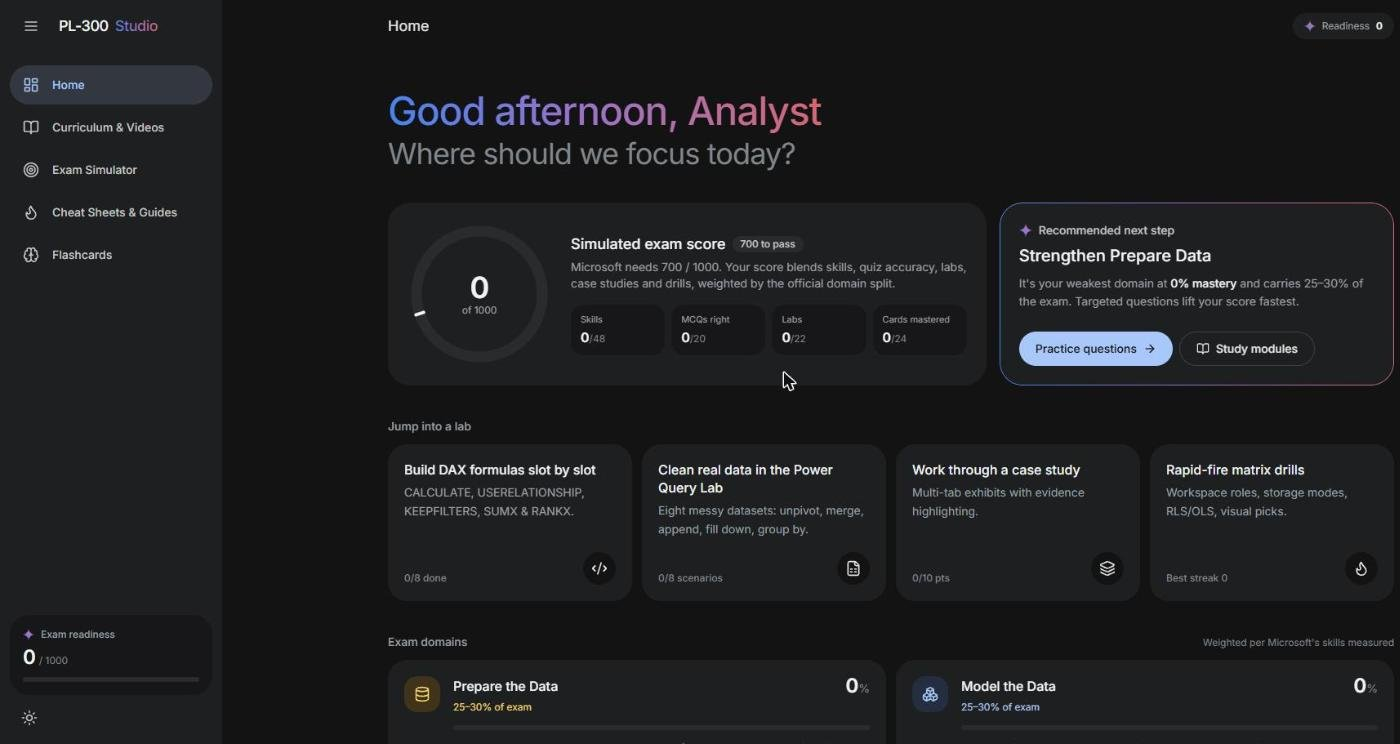
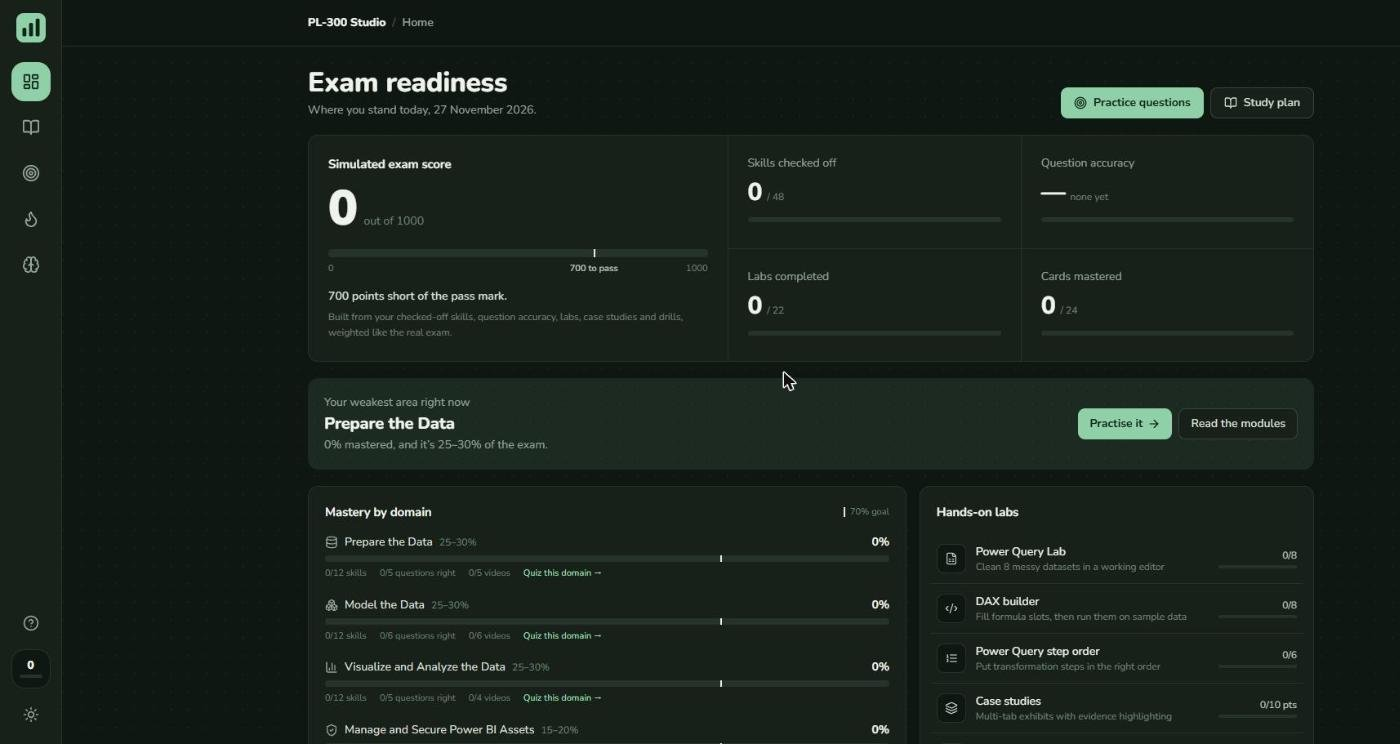
PL-300 Studio 2.0: new screenshots, sync codes, walkthroughs and Help
Screenshots retaken in its forest-green design (with the first-visit tip hidden only for the capture). The write-up swaps GitHub Gist sync for the sync code on the shared Supabase database with 15 versions kept, and adds the walkthroughs, Help guide and What's new note.

diff --git a/js/app.js b/js/app.js
@@ -880,8 +880,8 @@
             liveLabel: 'Open PL-300 Studio',
             repo: 'https://github.com/TheLordBass/pl300-study-studio',
             gallery: [
-                { src: 'assets/shots/pl300.jpg', cap: 'Home: a simulated exam score out of 1,000 with 700 to pass, weighted by Microsoft’s split of the exam, the weakest area to work on next, and the labs.', alt: 'PL-300 Studio home screen in its dark theme: a simulated exam score of 0 out of 1000 with 700 to pass, counts of 48 skills, 20 MCQs, 22 labs and 24 cards, a recommended next step to strengthen Prepare the Data, and four labs to jump into: building DAX formulas, the Power Query Lab, a case study and matrix drills.' },
-                { src: 'assets/shots/pl300-pqlab.jpg', cap: 'The Power Query Lab: a messy finance export, a brief, and an editor with the ribbon, formula bar, column quality bars and Applied Steps, laid out like Power BI’s own.', alt: 'PL-300 Studio Power Query Lab on the Budget workbook export scenario: a brief to remove title rows, promote headers, remove the total row, unpivot the months and set types, above a Power Query-style editor with Home, Transform and Add Column ribbon tabs, a formula bar showing Excel.Workbook, a grid of the raw rows and an Applied Steps pane.' }
+                { src: 'assets/shots/pl300.jpg', cap: 'Home: exam readiness at a glance, with a simulated exam score out of 1,000 against the 700 pass mark, the weakest area to practise next, mastery by exam domain, and the labs.', alt: 'PL-300 Studio home screen in its dark forest-green theme: exam readiness with a simulated exam score of 0 out of 1000 and a 700 pass mark, tiles for skills checked off, question accuracy, labs completed and cards mastered, the weakest area to practise next, mastery by exam domain against a 70% goal, and the hands-on labs.' },
+                { src: 'assets/shots/pl300-pqlab.jpg', cap: 'The Power Query lab: a messy finance export, a brief, and an editor with the ribbon, formula bar, column quality bars and Applied Steps, laid out like Power BI2019s own.', alt: 'PL-300 Studio Power Query lab on the Budget workbook export scenario: eight scenario buttons, a brief to remove title rows, promote headers, remove the total row, unpivot the months and set types, above a Power Query-style editor with Home, Transform and Add Column ribbon tabs, a formula bar showing Excel.Workbook, a grid of the raw rows and an Applied Steps pane.' }
             ],
             blocks: [
                 { h: 'What it is', p: [
@@ -899,7 +899,8 @@
                     'A searchable DAX cheat sheet of 54 functions with syntax, examples and exam traps, plus 7 common patterns, and 29 Power Query how-to guides, each with a drawing of the Power Query editor that highlights the button, menu item or dialog for that step.'
                 ]},
                 { h: 'How it is built', p: [
-                    'With Claude as my coding partner, the same way as QueryCafe and JobScratch. It is React and TypeScript with Vite and Tailwind, published to this site by GitHub Actions on every push. The DAX engine runs in a Web Worker on Pyodide and pandas, loaded only when a lab needs it. Progress is saved in the browser and can move between a laptop and a phone through a JSON backup or a private GitHub Gist.'
+                    'With Claude as my coding partner, the same way as QueryCafe and JobScratch. It is React and TypeScript with Vite and Tailwind, published to this site by GitHub Actions on every push. The DAX engine runs in a Web Worker on Pyodide and pandas, loaded only when a lab needs it. Progress is saved in the browser first, so it never waits on the network, and a 20-character sync code links a laptop and a phone with no account or email. It uses the same Supabase database as QueryCafe, merges changes made on two devices, and keeps the last 15 versions so an older one can be restored.',
+                    'Each page has a short walkthrough the first time it opens, there is a Help guide that can replay any of them, and each release with something new shows a one-off What2019s new note.'
                 ]}
             ]
         },

diff --git a/index.html b/index.html
@@ -594,7 +594,7 @@
             <article class="card project-card is-featured has-shot" data-category="app" data-project="pl300">
                 <a class="project-shot" href="#" data-project="pl300" aria-label="Open write-up: PL-300 Studio">
                     <img src="assets/shots/pl300.jpg" width="1400" height="744" loading="lazy" decoding="async"
-                         alt="PL-300 Studio home screen in its dark theme: a simulated exam score of 0 out of 1000 with 700 to pass, counts of 48 skills, 20 MCQs, 22 labs and 24 cards, a recommended next step to strengthen Prepare the Data, and four labs to jump into: building DAX formulas, the Power Query Lab, a case study and matrix drills.">
+                         alt="PL-300 Studio home screen in its dark forest-green theme: exam readiness with a simulated exam score of 0 out of 1000 and a 700 pass mark, tiles for skills checked off, question accuracy, labs completed and cards mastered, the weakest area to practise next, mastery by exam domain against a 70% goal, and the hands-on labs.">
                 </a>
                 <div class="project-top">
                     <span class="project-kind">React · TypeScript · Pyodide</span>
